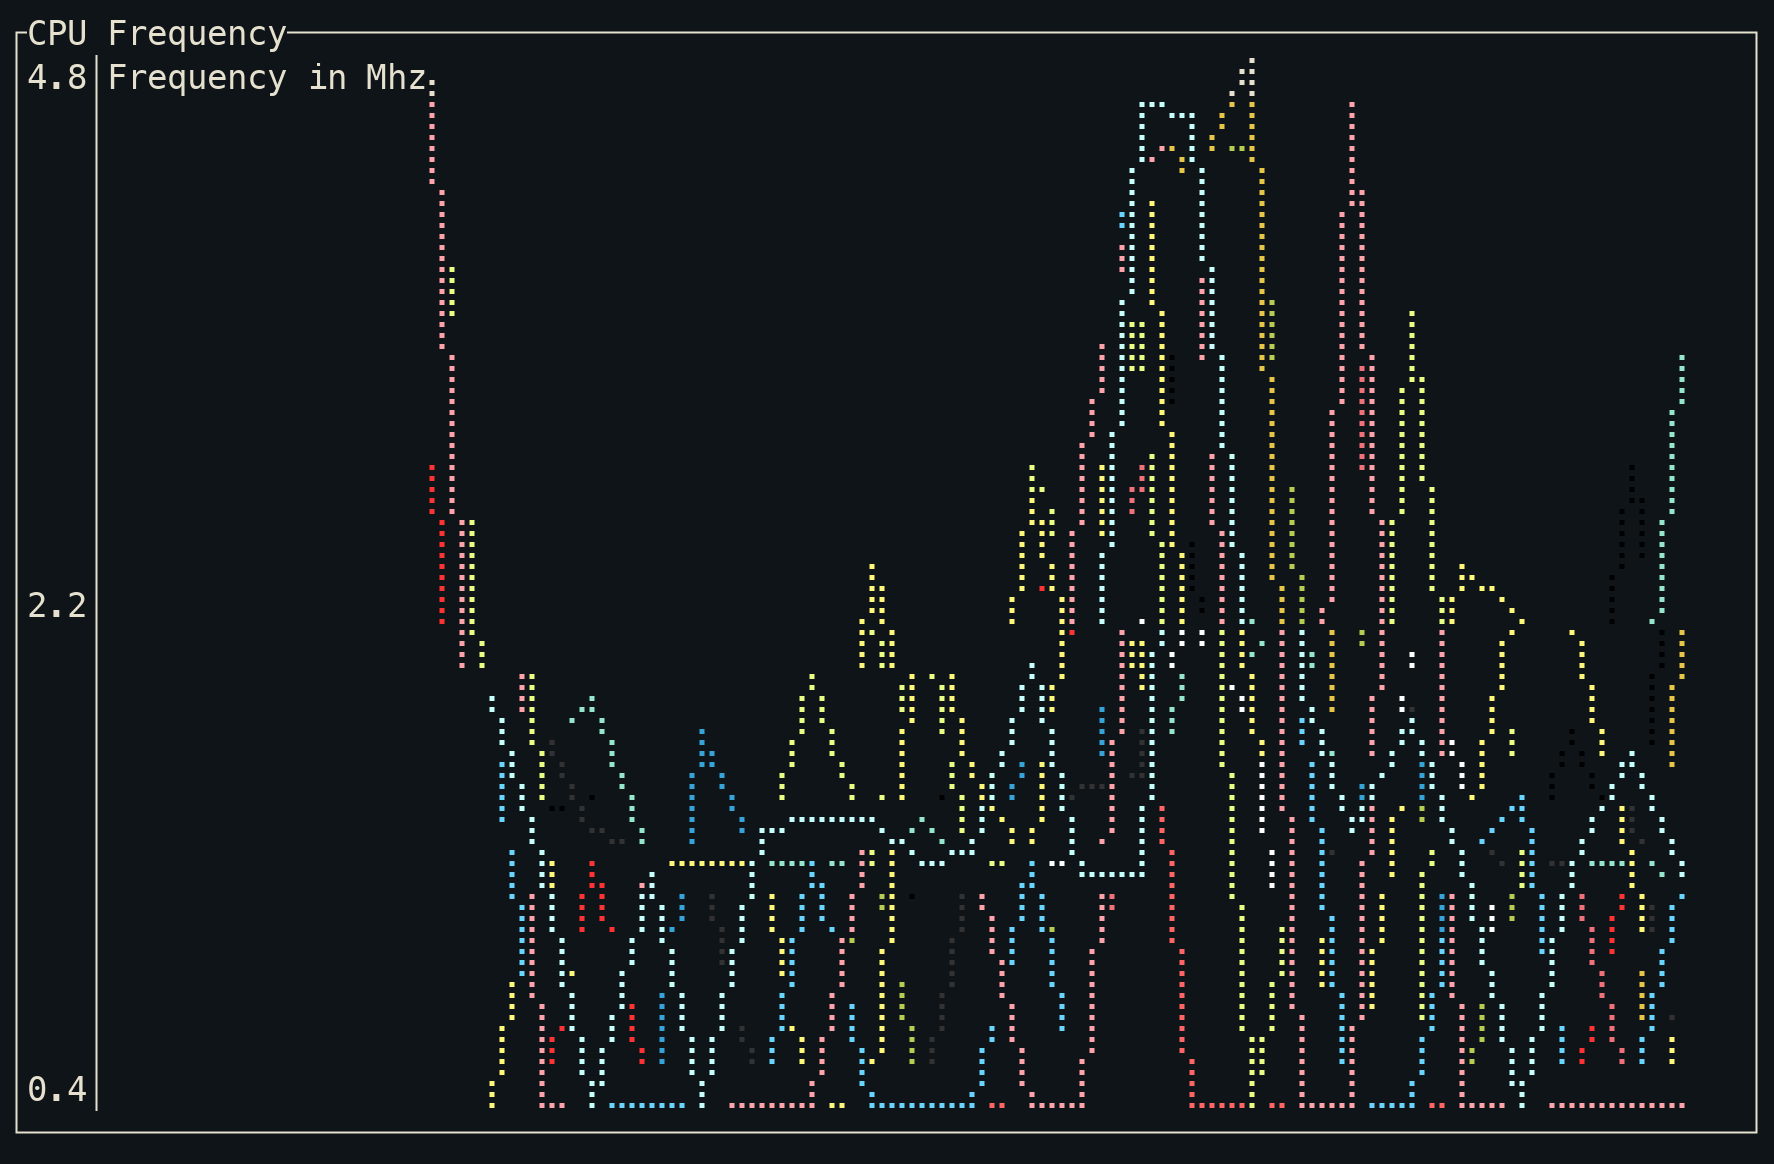
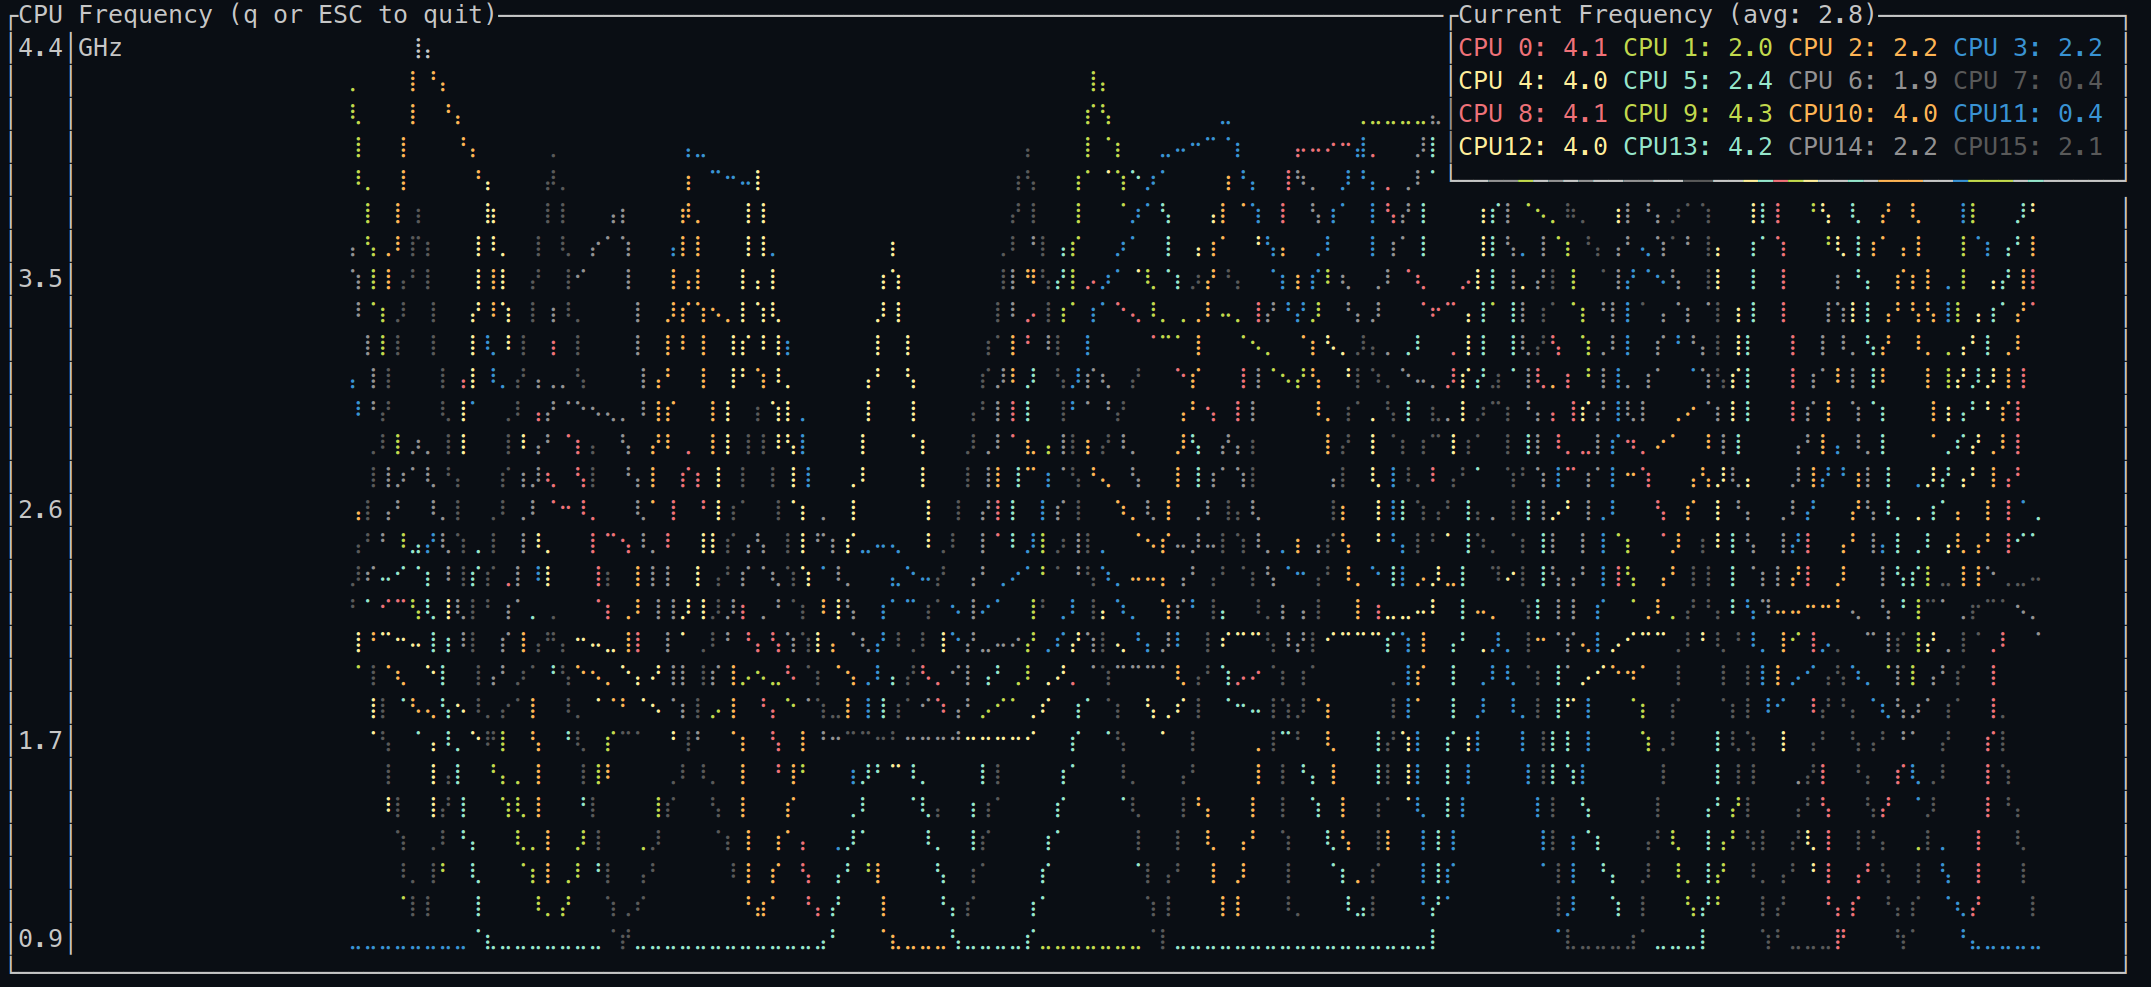
Fix missing CPU, add legend to monitor, cleanups

diff --git a/src/monitor.rs b/src/monitor.rs
@@ -9,14 +9,16 @@ use ratatui::{
     prelude::CrosstermBackend,
     style::Style,
     symbols,
-    text::Span,
-    widgets::Chart,
-    widgets::{Axis, Block, Borders, Dataset, GraphType},
     Terminal,
+    text::Span,
+    widgets::{Axis, Block, Borders, Dataset, GraphType},
+    widgets::Chart,
 };
+use ratatui::layout::Rect;
+use ratatui::widgets::{Paragraph, Wrap};
 
 use crate::{
-    model::{self, CpuFrequencyHistory},
+    model::CpuFrequencyHistory,
     sysfs,
 };
 
@@ -25,7 +27,13 @@ pub(crate) struct Monitor {}
 
 const POLL_RATE: u64 = 500;
 const FREQ_SCALER: f64 = 1000000.0;
-const MAX_ANSI_COLORS: u32 = 16;
+const MAX_ANSI_COLORS: u32 = 8; // skip 0 = black
+
+fn style_for_cpu(i: u32) -> Style {
+    Style::default().fg(ratatui::style::Color::Indexed(
+        (i % MAX_ANSI_COLORS) as u8 + 1, // skip 0 = black
+    ))
+}
 
 impl Monitor {
     pub(crate) fn start() -> anyhow::Result<()> {
@@ -34,7 +42,7 @@ impl Monitor {
         let min_cpu = sysfs::read_int_value(&cpu.path_for(sysfs::CPU_MIN_FREQ))?;
         let max_cpu = sysfs::read_int_value(&cpu.path_for(sysfs::CPU_MAX_FREQ))?;
 
-        let freq_data_handle = Arc::new(Mutex::new(model::CpuFrequencyHistory::new(
+        let freq_data_handle = Arc::new(Mutex::new(CpuFrequencyHistory::new(
             cpus.len(),
             30,
             min_cpu,
@@ -61,7 +69,7 @@ impl Monitor {
                         break;
                     }
                 } // lock scope
-                std::thread::sleep(time::Duration::from_millis(POLL_RATE));
+                thread::sleep(time::Duration::from_millis(POLL_RATE));
             }
             Ok(())
         });
@@ -92,26 +100,34 @@ impl Monitor {
                 })
                 .collect();
 
-            let datasets = (0..numbers.len())
-                .map(|i| {
-                    Dataset::default()
-                        .name(format!("cpu{}", i))
-                        .marker(symbols::Marker::Braille)
-                        .graph_type(GraphType::Line)
-                        .style(Style::default().fg(ratatui::style::Color::Indexed(
-                            (i as u32 % MAX_ANSI_COLORS) as u8,
-                        )))
-                        .data(&numbers[i])
-                })
-                .collect();
-
             let min_value = f64::from(hist.min_value) / FREQ_SCALER;
             let max_value = f64::from(hist.max_value) / FREQ_SCALER;
 
             let sub_range: f64 = (max_value - min_value) / 5.0;
-            let range:Vec<_> = (1..=5)
+            let range: Vec<_> = (1..=5)
                 .map(|i| f64::from(i) * sub_range)
                 .map(|v| Span::from(format!("{:.1}", v)))
+                .collect();
+
+            let curr_freq: Vec<_> = numbers
+                .iter()
+                .map(|freq_hist| {
+                    let (_, last_value) = *freq_hist.last().unwrap();
+                    last_value
+                })
+                .collect();
+
+            let avg_freq = curr_freq.iter().sum::<f64>() / f64::from(curr_freq.len() as u16);
+
+            let datasets = (0..numbers.len())
+                .map(|i| {
+                    Dataset::default()
+                        .name(format!("cpu{} - {:.1} GHz", i, curr_freq[i]))
+                        .marker(symbols::Marker::Braille)
+                        .graph_type(GraphType::Line)
+                        .style(style_for_cpu(i as u32))
+                        .data(&numbers[i])
+                })
                 .collect();
 
             terminal.draw(|f| {
@@ -130,9 +146,31 @@ impl Monitor {
                     );
 
                 f.render_widget(chart, f.size());
+
+
+                // overlay a block with a line for each cpu with the current frequency with the matching style
+
+                f.render_widget(
+                    Paragraph::new(ratatui::text::Line::from(curr_freq.iter()
+                        .enumerate()
+                        .map(|(i, freq)| {
+                            Span::styled(
+                                format!("CPU{:2}: {:.1} ", i, freq),
+                                style_for_cpu(i as u32),
+                            )
+                        })
+                        .collect::<Vec<Span>>())
+                    ).wrap(Wrap { trim: true })
+                        .block(
+                            Block::default()
+                                .title(format!("Current Frequency (avg: {:.1})", avg_freq))
+                                .borders(Borders::ALL)),
+                    Rect::new(f.size().width - 46, f.size().y, 46, (2 + numbers.len() / 4) as u16),
+                );
             })?;
 
-            if crossterm::event::poll(std::time::Duration::from_millis(POLL_RATE))? {
+
+            if crossterm::event::poll(time::Duration::from_millis(POLL_RATE))? {
                 if let crossterm::event::Event::Key(key) = crossterm::event::read()? {
                     if key.code == crossterm::event::KeyCode::Char('q')
                         || key.code == crossterm::event::KeyCode::Esc

diff --git a/src/sysfs.rs b/src/sysfs.rs
@@ -132,7 +132,7 @@ pub(crate) fn is_governor_and_epp_writable() -> std::io::Result<bool> {
 
 pub(crate) fn get_cpus() -> std::io::Result<Vec<CpuId>> {
     let (from, to) = read_int_range_value(CPU_PRESENT)?;
-    Ok((from..to).map(CpuId).collect())
+    Ok((from..=to).map(CpuId).collect())
 }
 
 #[derive(Debug)]
